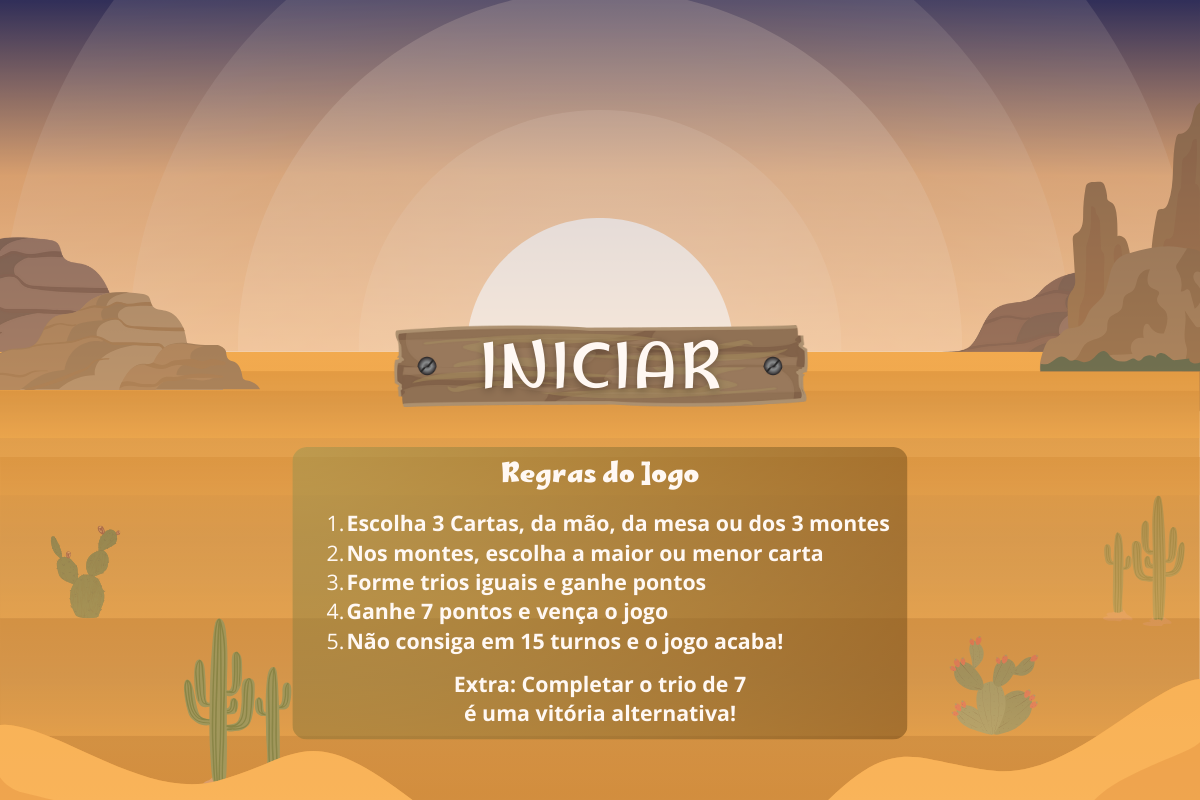
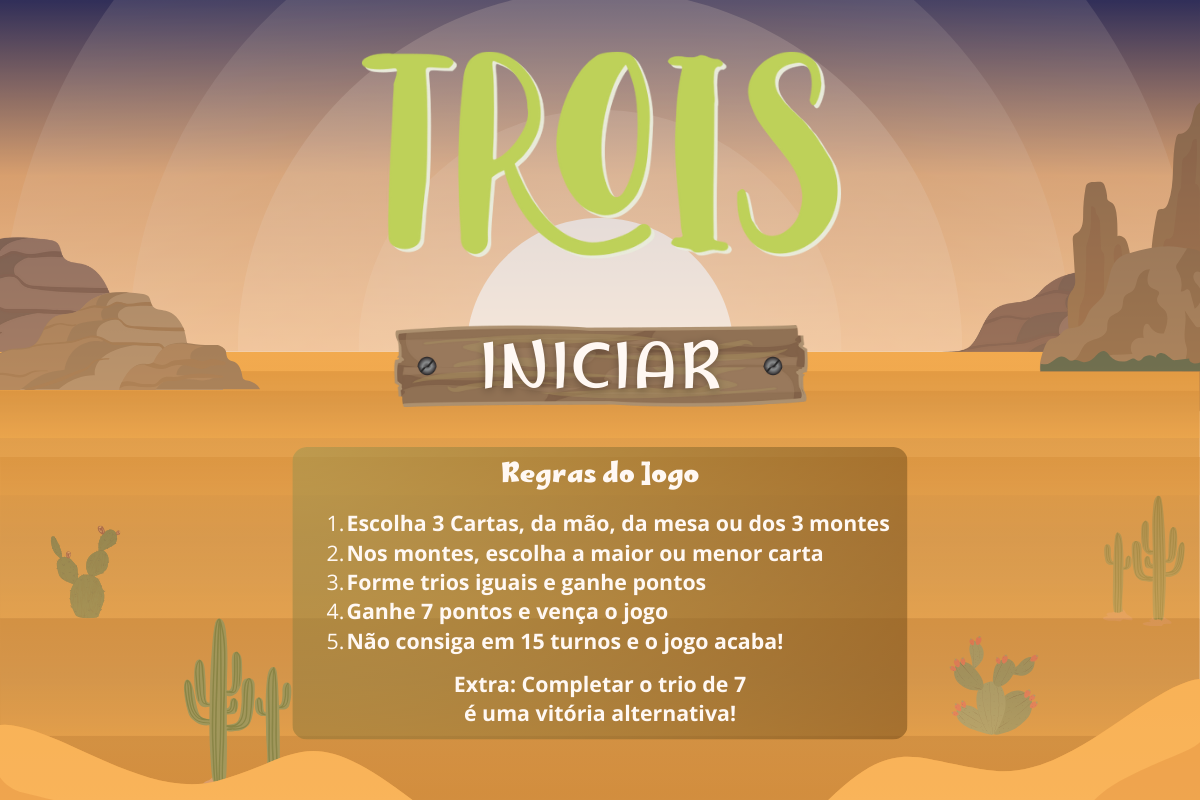
alteração de readme e background inicial

Changed region(s): [[0.3083, 0.0625, 0.7092, 0.3438]]

diff --git a/README.md b/README.md
@@ -1,17 +1,24 @@
 # Projeto-Trois
 
-## Objetivo
-  Desenvolver um jogo digital utilizando a linguagem de programação Python
+### Trois é um jogo de cartas, solo, de fazer trios!
+
+## Intro
+
+Este projeto surgiu como uma atividade da matéria Programação Funcional do Curso de Ciência da Computação do Unianchieta.
+O desafio era fazer um jogo digital, baseado em algum jogo que já existisse, e para isso, escolhemos o jogo Trio.
+
+## Como Funciona
+
+Ao clicar em iniciar, haverá 3 montes, cartas fechadas na mesa e cartas abertas na mão.
+Selecione trios de cartas e encontre 3 iguais para pontuar. Faça 7 pontos em 15 turnos para vencer.
+
+#### Parece difícil? É pra ser. Queremos testar sua memória e sua sorte também.
+
+Porém, se fizer o trio de 7, você automaticamente vence o jogo!
 
 ## Ferramentas
-
-## Etapas
-  Desenvolvimento da Lógica
-  Desenvolvimento do menu inicial
-  Desenvolvimento da interface principal
-  Desenvolvimento da tela de fim de jogo
-  Desenvolvimento de multiplayer local
-  Testes e apresentação
+  O jogo foi desenvilvido usando a linguagem de programação Python.
+  Baixe o Pygame para testar!
   
 ## Desenvolvedores:
 Alifer Dias
